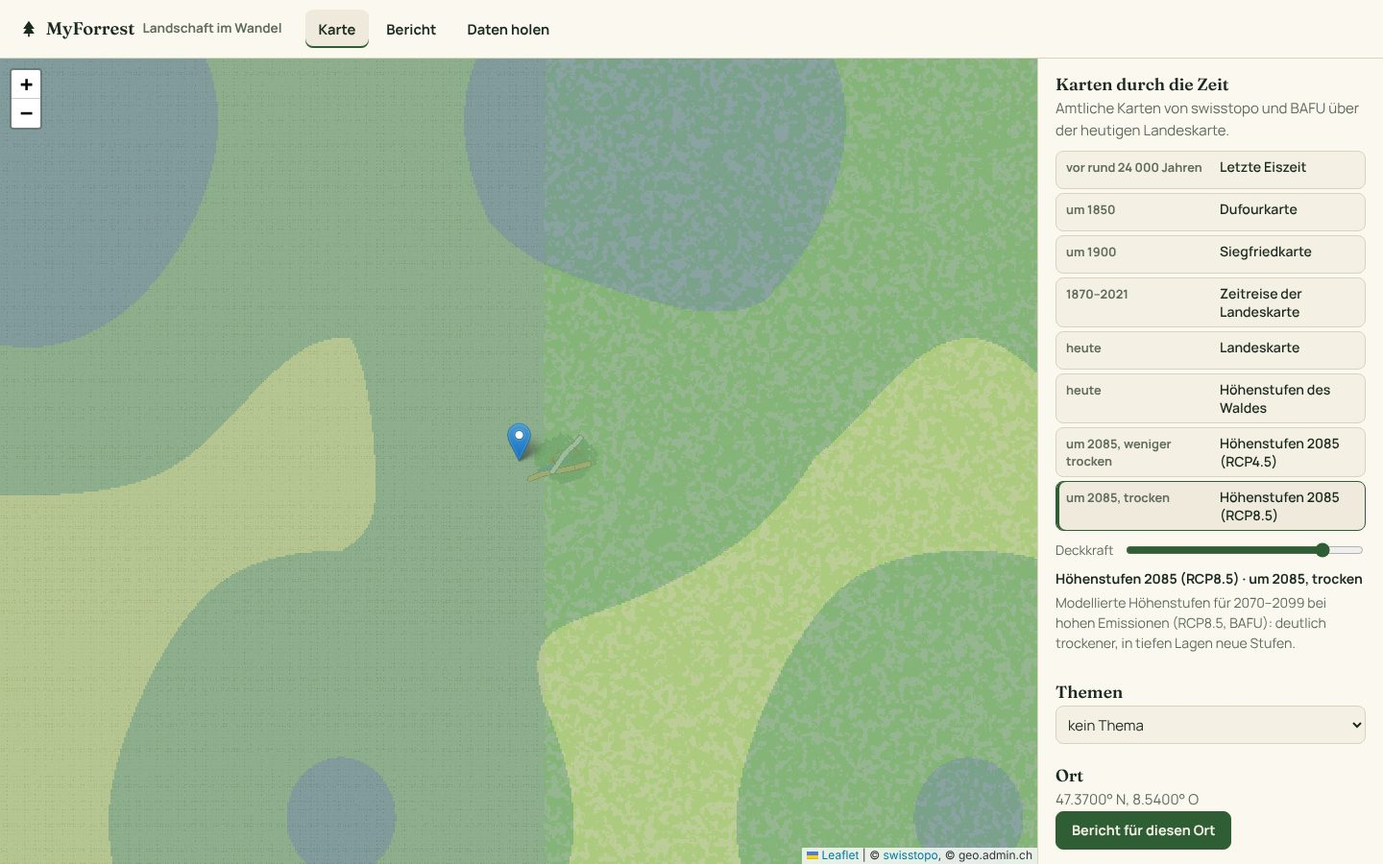
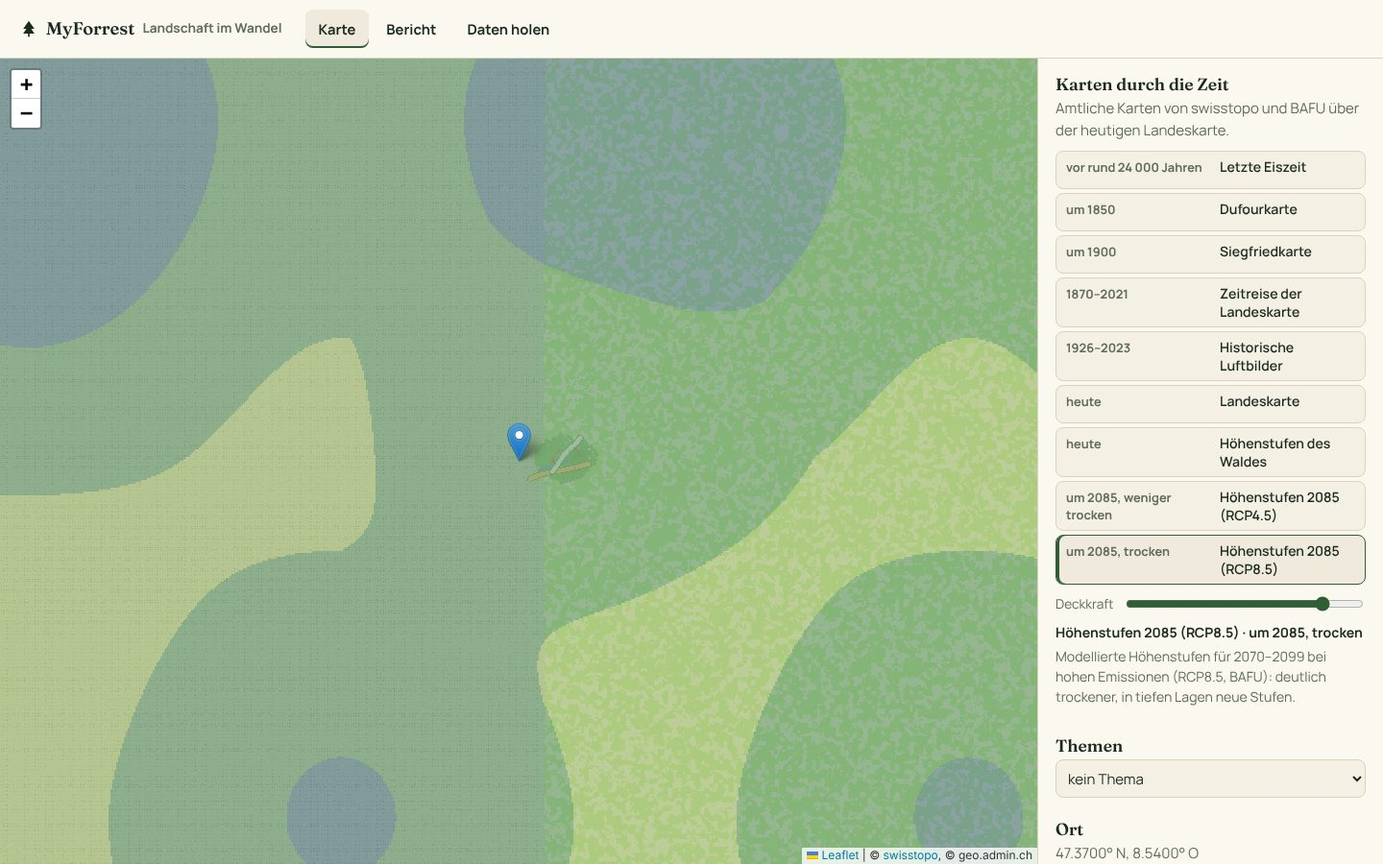
Landschaft im Wandel: historische Luftbilder (SWISSIMAGE Zeitreise)
Die Orthofotos von swisstopo seit 1926 als eigener Zeitpunkt in den Karten
durch die Zeit, mit demselben Regler wie die Zeitreise der Landeskarte. Die
Flugjahre und die Kachel-Adresse liest der Server aus den WMTS-Capabilities
(ch.swisstopo.swissimage-product); Ansicht und Jahr stehen im Link.

Claude-Session: https://claude.ai/code/session_01VrwUHCrbV39SyrRwqbHyo5

diff --git a/src/routes/landschaft.js b/src/routes/landschaft.js
@@ -6,7 +6,8 @@
  * inventories and GLAMOS series of this server, and the spots in the region. The climate part of the report comes
  * from the climate dossier (/api/klima), which the page asks for itself.
  *
- *   GET /api/landschaft/karten               the maps through time (with the years of swisstopo's «Zeitreise») and the layers per theme
+ *   GET /api/landschaft/karten               the maps through time (with the years of swisstopo's «Zeitreise» of the
+ *                                            Landeskarte and of the aerial images) and the layers per theme
  *   GET /api/landschaft/bericht?lat&lon      what the layers, the inventories and the spots say about a place
  */
 
@@ -25,8 +26,12 @@ const TIMELINE = [
     text: 'Topographischer Atlas der Schweiz (1870–1949): Gletscher, Wald und Siedlungen vor dem grossen Wandel des 20. Jahrhunderts.',
   },
   {
-    id: 'zeitreise', zeitreise: true, when: 'Jahr für Jahr', title: 'Zeitreise der Landeskarte',
+    id: 'zeitreise', wmts: 'ch.swisstopo.zeitreihen', ext: 'png', title: 'Zeitreise der Landeskarte',
     text: 'Die Landeskarten von swisstopo, wie sie im gewählten Jahr galten: Gletscher, Wald, Siedlungen und Strassen Jahr für Jahr. Vor 1964 decken sie die Schweiz nicht überall ab.',
+  },
+  {
+    id: 'luftbild', wmts: 'ch.swisstopo.swissimage-product', ext: 'jpeg', title: 'Historische Luftbilder',
+    text: 'SWISSIMAGE Zeitreise: die Orthofotos von swisstopo aus den Befliegungen seit 1926. Jede Kachel zeigt den Flug, der den grössten Teil liefert; an den Rändern der Flugblöcke mischen sich die Jahre.',
   },
   { id: 'heute', base: true, when: 'heute', title: 'Landeskarte', text: 'Die aktuelle Landeskarte von swisstopo.' },
   {
@@ -71,22 +76,30 @@ const { TAGS } = require('../tags');
 
 const RADIUS_KM = 5;
 
-// swisstopo's «Zeitreise»: the Landeskarte of each year as WMTS tiles; the years are in the WMTS capabilities.
-const ZEITREISE_LAYER = 'ch.swisstopo.zeitreihen';
+// swisstopo's «Zeitreise» (the Landeskarte of each year) and the aerial images of each flight: WMTS layers with a
+// time dimension; their years and tile addresses are in the WMTS capabilities.
 const ZEITREISE_CAPABILITIES = 'https://wmts.geo.admin.ch/EPSG/3857/1.0.0/WMTSCapabilities.xml';
-const ZEITREISE_TILES = `https://wmts.geo.admin.ch/1.0.0/${ZEITREISE_LAYER}/default/{time}/3857/{z}/{x}/{y}.png`;
 const DAY = 24 * 3600000;
 
-/** The time values (YYYYMMDD) of a WMTS layer in capabilities, oldest first. */
-function wmtsTimes(xml, layer) {
+/**
+ * A WMTS layer with a time dimension in capabilities: its time values (YYYY or YYYYMMDD, oldest first) and the tile
+ * address as a Leaflet template ({time}, {z}, {x}, {y}); null when the layer is not there.
+ */
+function wmtsLayer(xml, layer) {
   for (const block of xml.split(/<Layer>/).slice(1)) {
     const id = block.match(/<ows:Identifier>([^<]*)<\/ows:Identifier>/)?.[1];
     if (id !== layer) continue;
     const dim = block.match(/<Dimension>([\s\S]*?)<\/Dimension>/)?.[1] || '';
-    return [...new Set([...dim.matchAll(/<Value>(\d{8})<\/Value>/g)].map((m) => m[1]))].sort();
+    const times = [...new Set([...dim.matchAll(/<Value>(\d{4}(?:\d{4})?)<\/Value>/g)].map((m) => m[1]))].sort();
+    const raw = block.match(/<ResourceURL[^>]*resourceType="tile"[^>]*template="([^"]+)"/)?.[1]
+      || block.match(/<ResourceURL[^>]*template="([^"]+)"[^>]*resourceType="tile"/)?.[1] || null;
+    const template = raw && raw.replace(/&amp;/g, '&').replace('{Time}', '{time}').replace('{TileMatrixSet}', '3857')
+      .replace('{TileMatrix}', '{z}').replace('{TileCol}', '{x}').replace('{TileRow}', '{y}');
+    return { times, template };
   }
-  return [];
+  return null;
 }
+const yearOf = (time) => Number(String(time).slice(0, 4));
 
 function pick(layers, theme) {
   const hits = layers.filter((l) => theme.match.test(l.name));
@@ -98,32 +111,41 @@ module.exports = function registerLandschaft(app, {
   db, layers, glaciers = null, glamos = null, fetchImpl = fetch, now = () => Date.now(),
   zeitreiseUrl = (process.env.ZEITREISE_WMTS_URL ?? ZEITREISE_CAPABILITIES) || null,
 }) {
-  let zeitreise = { at: 0, times: [] };
-  /** The years of the «Zeitreise», read once a day; the last good list when the service does not answer. */
-  async function zeitreiseTimes() {
-    if (!zeitreiseUrl || (zeitreise.times.length && now() - zeitreise.at < DAY)) return zeitreise.times;
+  let wmts = { at: 0, layers: {} };
+  /** The time layers of the timeline from the WMTS capabilities, read once a day; the last good ones when it fails. */
+  async function timeLayers() {
+    if (!zeitreiseUrl || (Object.keys(wmts.layers).length && now() - wmts.at < DAY)) return wmts.layers;
     try {
       const r = await fetchImpl(zeitreiseUrl, { signal: AbortSignal.timeout(40000) });
       if (!r.ok) throw new Error(`HTTP ${r.status}`);
-      const times = wmtsTimes(await r.text(), ZEITREISE_LAYER);
-      if (times.length) zeitreise = { at: now(), times };
+      const xml = await r.text();
+      const found = {};
+      for (const t of TIMELINE.filter((x) => x.wmts)) {
+        const l = wmtsLayer(xml, t.wmts);
+        if (l?.times.length) found[t.wmts] = l;
+      }
+      if (Object.keys(found).length) wmts = { at: now(), layers: found };
     } catch { /* keep what we had */ }
-    return zeitreise.times;
+    return wmts.layers;
   }
 
   const hasCol = (table, col) => db.prepare(`PRAGMA table_info(${table})`).all().some((c) => c.name === col);
   const layerJson = (l) => ({ name: l.name, title: l.title, url: l.url, attribution: l.attribution, legend: l.legend });
 
   app.get('/api/landschaft/karten', async (req, res) => {
-    const [all, times] = await Promise.all([layers.geoadminLayers(), zeitreiseTimes()]);
+    const [all, timed] = await Promise.all([layers.geoadminLayers(), timeLayers()]);
     const timeline = [];
     for (const t of TIMELINE) {
-      if (t.zeitreise) {
-        if (!times.length) continue;
-        const years = times.map((time) => ({ year: Number(time.slice(0, 4)), time }));
+      if (t.wmts) {
+        const w = timed[t.wmts];
+        if (!w) continue;
+        // One entry per year (aerial images list several flights of a year: the last one counts).
+        const byYear = new Map(w.times.map((time) => [yearOf(time), time]));
+        const years = [...byYear].map(([year, time]) => ({ year, time }));
+        const tiles = w.template || `https://wmts.geo.admin.ch/1.0.0/${t.wmts}/default/{time}/3857/{z}/{x}/{y}.${t.ext}`;
         timeline.push({
           id: t.id, when: `${years[0].year}–${years[years.length - 1].year}`, title: t.title, text: t.text, base: false,
-          zeitreise: { tiles: ZEITREISE_TILES, layer: ZEITREISE_LAYER, years, attribution: '© swisstopo, Zeitreise' },
+          zeitreise: { tiles, layer: t.wmts, years, attribution: '© swisstopo' },
         });
         continue;
       }
@@ -182,5 +204,5 @@ module.exports = function registerLandschaft(app, {
 };
 
 module.exports.TIMELINE = TIMELINE;
-module.exports.wmtsTimes = wmtsTimes;
+module.exports.wmtsLayer = wmtsLayer;
 module.exports.THEMES = THEMES;

diff --git a/test/landschaft.test.js b/test/landschaft.test.js
@@ -121,20 +121,28 @@ test('Landschaft im Wandel is a page of its own, linked from the start page and 
   });
 });
 
-test('Landschaft im Wandel: the «Zeitreise» of the Landeskarte with the years of the WMTS capabilities', async () => {
+test('Landschaft im Wandel: the «Zeitreise» of the Landeskarte and the aerial images, with the years of the WMTS capabilities', async () => {
   const wmts = `<?xml version="1.0"?><Capabilities xmlns:ows="http://www.opengis.net/ows/1.1"><Contents>
 <Layer><ows:Title>Landeskarte</ows:Title><ows:Identifier>ch.swisstopo.pixelkarte-farbe</ows:Identifier>
 <Dimension><ows:Identifier>Time</ows:Identifier><Default>current</Default><Value>current</Value></Dimension></Layer>
 <Layer><ows:Title>Zeitreise</ows:Title><ows:Identifier>ch.swisstopo.zeitreihen</ows:Identifier>
 <Dimension><ows:Identifier>Time</ows:Identifier><Default>20211231</Default><Value>20211231</Value><Value>18641231</Value><Value>19501231</Value><Value>19501231</Value></Dimension></Layer>
+<Layer><ows:Title>SWISSIMAGE Zeitreise</ows:Title><ows:Identifier>ch.swisstopo.swissimage-product</ows:Identifier>
+<Dimension><ows:Identifier>Time</ows:Identifier><Default>current</Default><Value>current</Value><Value>1946</Value><Value>19260101</Value><Value>19461231</Value><Value>2023</Value></Dimension>
+<ResourceURL format="image/jpeg" resourceType="tile" template="https://wmts.geo.admin.ch/1.0.0/ch.swisstopo.swissimage-product/default/{Time}/{TileMatrixSet}/{TileMatrix}/{TileCol}/{TileRow}.jpeg"/></Layer>
 </Contents></Capabilities>`;
   await withServer(async (base) => {
     const d = await (await fetch(`${base}/api/landschaft/karten`)).json();
-    assert.deepEqual(d.timeline.map((t) => t.id), ['eiszeit', 'dufour', 'zeitreise', 'heute', 'wald-heute', 'wald-2085-t']);
+    assert.deepEqual(d.timeline.map((t) => t.id), ['eiszeit', 'dufour', 'zeitreise', 'luftbild', 'heute', 'wald-heute', 'wald-2085-t']);
     const z = d.timeline.find((t) => t.id === 'zeitreise');
     assert.equal(z.when, '1864–2021');
     assert.deepEqual(z.zeitreise.years, [{ year: 1864, time: '18641231' }, { year: 1950, time: '19501231' }, { year: 2021, time: '20211231' }], 'sorted, once each');
     assert.equal(z.zeitreise.tiles, 'https://wmts.geo.admin.ch/1.0.0/ch.swisstopo.zeitreihen/default/{time}/3857/{z}/{x}/{y}.png');
+    // The aerial images: the tile address from the capabilities, one entry per year (the last flight of a year).
+    const l = d.timeline.find((t) => t.id === 'luftbild');
+    assert.equal(l.when, '1926–2023');
+    assert.deepEqual(l.zeitreise.years, [{ year: 1926, time: '19260101' }, { year: 1946, time: '19461231' }, { year: 2023, time: '2023' }]);
+    assert.equal(l.zeitreise.tiles, 'https://wmts.geo.admin.ch/1.0.0/ch.swisstopo.swissimage-product/default/{time}/3857/{z}/{x}/{y}.jpeg');
   }, { wmts });
   // Without capabilities there is no «Zeitreise», the rest stays.
   await withServer(async (base) => {

diff --git a/scripts/screenshots/lib.js b/scripts/screenshots/lib.js
@@ -24,18 +24,22 @@ async function routeTiles(ctx) {
     if (!tileCache.has(key)) tileCache.set(key, await tiles.mercatorTile(z, x, y, 'osm'));
     await route.fulfill({ body: tileCache.get(key), contentType: 'image/png' });
   }));
-  // The «Zeitreise» of swisstopo: the placeholder map, sepia for the old editions.
-  await ctx.route(/ch\.swisstopo\.zeitreihen\/default\/(\d{8})\/3857\/(\d+)\/(\d+)\/(\d+)\.png/, safe(async (route) => {
-    const [, time, z, x, y] = route.request().url().match(/\/(\d{8})\/3857\/(\d+)\/(\d+)\/(\d+)\.png/);
+  // The «Zeitreise» of swisstopo and its aerial images: the placeholder map, sepia for old map editions, black and
+  // white for old flights.
+  await ctx.route(/ch\.swisstopo\.(zeitreihen|swissimage-product)\/default\/(\d{4,8})\/3857\/(\d+)\/(\d+)\/(\d+)\.(png|jpeg)/, safe(async (route) => {
+    const [, layer, time, z, x, y] = route.request().url().match(/ch\.swisstopo\.(zeitreihen|swissimage-product)\/default\/(\d{4,8})\/3857\/(\d+)\/(\d+)\/(\d+)\./);
     const key = `m${z}/${x}/${y}`;
     if (!tileCache.has(key)) tileCache.set(key, await tiles.mercatorTile(Number(z), Number(x), Number(y), 'osm'));
     const year = Number(time.slice(0, 4));
     const sharp = require('sharp');
-    const body = year < 1990 ? await sharp(tileCache.get(key)).modulate({ saturation: 0.25 }).tint({ r: 214, g: 190, b: 150 }).png().toBuffer() : tileCache.get(key);
+    let body = tileCache.get(key);
+    if (layer === 'zeitreihen' && year < 1990) body = await sharp(body).modulate({ saturation: 0.25 }).tint({ r: 214, g: 190, b: 150 }).png().toBuffer();
+    if (layer === 'swissimage-product' && year < 1990) body = await sharp(body).grayscale().linear(1.2, -20).png().toBuffer();
     await route.fulfill({ body, contentType: 'image/png' });
   }));
-  // swisstopo in Web Mercator (Landschaft im Wandel): the same placeholder map as OpenStreetMap.
-  await ctx.route(/wmts\.geo\.admin\.ch\/.*\/3857\/(\d+)\/(\d+)\/(\d+)\.jpeg/, safe(async (route) => {
+  // swisstopo in Web Mercator (Landschaft im Wandel): the same placeholder map as OpenStreetMap (not the aerial images
+  // above, which are JPEG too).
+  await ctx.route(/wmts\.geo\.admin\.ch\/(?!1\.0\.0\/ch\.swisstopo\.swissimage-product\/).*\/3857\/(\d+)\/(\d+)\/(\d+)\.jpeg/, safe(async (route) => {
     const [, z, x, y] = route.request().url().match(/\/3857\/(\d+)\/(\d+)\/(\d+)\.jpeg/).map(Number);
     const key = `m${z}/${x}/${y}`;
     if (!tileCache.has(key)) tileCache.set(key, await tiles.mercatorTile(z, x, y, 'osm'));

diff --git a/public/landschaft.js b/public/landschaft.js
@@ -62,6 +62,7 @@
     $('ln-zeit-range').value = String(zeit.index);
     // The year in the address, so the view can be shared.
     const q = new URLSearchParams(state.place ? { lat: state.place.lat, lon: state.place.lon } : {});
+    q.set('ansicht', stop.id);
     q.set('jahr', y.year);
     history.replaceState(null, '', `#karte?${q}`);
   }
@@ -101,8 +102,8 @@
     if (stop?.layer) timeLayer = wms(stop.layer, Number($('ln-opacity').value)).addTo(map);
     if (stop?.zeitreise) {
       const years = stop.zeitreise.years;
-      // Start at the year asked for (link), else around 1900.
-      const want = year ?? 1900;
+      // Start at the year asked for (link), else around 1900 (maps) or 1950 (aerial images).
+      const want = year ?? (id === 'luftbild' ? 1950 : 1900);
       zeit.index = years.reduce((best, y, i) => (Math.abs(y.year - want) < Math.abs(years[best].year - want) ? i : best), 0);
       timeLayer = L.tileLayer(zeitTiles(stop.zeitreise, years[zeit.index].time), {
         maxZoom: 19, maxNativeZoom: 18, bounds: CH, opacity: Number($('ln-opacity').value), attribution: stop.zeitreise.attribution,
@@ -151,8 +152,10 @@
       el('div', { id: 'ln-theme-legend' }),
       state.maps.themes.some((t) => t.layers.length) ? null : el('p', { class: 'ln-muted', text: 'Keine Themenkarten verfügbar.' }),
     ].filter(Boolean));
-    const year = Number(new URLSearchParams(location.hash.split('?')[1] || '').get('jahr'));
-    if (year && state.maps.timeline.some((t) => t.id === 'zeitreise')) showTimeline('zeitreise', { year });
+    const q = new URLSearchParams(location.hash.split('?')[1] || '');
+    const year = Number(q.get('jahr'));
+    const view = q.get('ansicht') || 'zeitreise';
+    if (year && state.maps.timeline.some((t) => t.id === view && t.zeitreise)) showTimeline(view, { year });
     else showTimeline(state.maps.timeline.some((t) => t.id === state.timeline) ? state.timeline : 'heute');
   }
 

diff --git a/scripts/screenshots/demo-server.js b/scripts/screenshots/demo-server.js
@@ -597,12 +597,18 @@ app.get('/demo-vt/:z/:x/:y.pbf', (req, res) => {
   res.set('access-control-allow-origin', '*');
   res.type('application/x-protobuf').send(vectorDemo.tile(Number(req.params.z), Number(req.params.x), Number(req.params.y)));
 });
-// The years of the demo «Zeitreise»: every tenth year since 1870 and the last edition.
+// The years of the demo «Zeitreise» (every tenth year since 1870 and the last edition) and of the demo aerial
+// images (a flight every few years since 1926).
 app.get('/demo-wmts/WMTSCapabilities.xml', (req, res) => {
   const years = [...Array.from({ length: 15 }, (_, i) => 1870 + i * 10), 2021];
+  const flights = [1926, 1934, 1946, 1956, 1967, 1976, 1988, 1998, 2004, 2010, 2016, 2023];
   res.type('text/xml').send(`<?xml version="1.0"?><Capabilities xmlns:ows="http://www.opengis.net/ows/1.1"><Contents><Layer>
 <ows:Title>Zeitreise (Demo)</ows:Title><ows:Identifier>ch.swisstopo.zeitreihen</ows:Identifier>
-<Dimension><ows:Identifier>Time</ows:Identifier>${years.map((y) => `<Value>${y}1231</Value>`).join('')}</Dimension></Layer></Contents></Capabilities>`);
+<Dimension><ows:Identifier>Time</ows:Identifier>${years.map((y) => `<Value>${y}1231</Value>`).join('')}</Dimension></Layer>
+<Layer><ows:Title>SWISSIMAGE Zeitreise (Demo)</ows:Title><ows:Identifier>ch.swisstopo.swissimage-product</ows:Identifier>
+<Dimension><ows:Identifier>Time</ows:Identifier><Value>current</Value>${flights.map((y) => `<Value>${y}</Value>`).join('')}</Dimension>
+<ResourceURL format="image/jpeg" resourceType="tile" template="https://wmts.geo.admin.ch/1.0.0/ch.swisstopo.swissimage-product/default/{Time}/{TileMatrixSet}/{TileMatrix}/{TileCol}/{TileRow}.jpeg"/></Layer>
+</Contents></Capabilities>`);
 });
 app.get('/demo-wms', async (req, res) => {
   const r = await demoWms(`http://x/demo-wms?${new URLSearchParams(req.query)}`);

diff --git a/scripts/screenshots/shoot.js b/scripts/screenshots/shoot.js
@@ -94,8 +94,17 @@ const pin = (page, id) => page.locator(`.leaflet-marker-icon[title="Spot ${id}"]
       range.value = '3';
       range.dispatchEvent(new Event('input'));
     });
-    await settle(page, 2500);
+    await settle(page, 6000);
     await page.screenshot({ path: out('landschaft-zeitreise.jpg'), ...jpg });
+    // The aerial images of 1956.
+    await stop('luftbild');
+    await page.evaluate(() => {
+      const range = document.getElementById('ln-zeit-range');
+      range.value = '3';
+      range.dispatchEvent(new Event('input'));
+    });
+    await settle(page, 6000);
+    await page.screenshot({ path: out('landschaft-luftbild.jpg'), ...jpg });
     await page.goto(`${BASE}/landschaft.html#bericht?lat=47.37&lon=8.54`);
     await page.waitForSelector('.ln-section', { timeout: 120000 });
     await settle(page, 2500);

diff --git a/public/sw.js b/public/sw.js
@@ -23,7 +23,7 @@
 
 importScripts('offline-queue.js');
 
-const SHELL_VERSION = 'v28';
+const SHELL_VERSION = 'v29';
 const DATA_VERSION = 'v1';
 const CACHE = {
   shell: `myforrest-shell-${SHELL_VERSION}`,

diff --git a/docs/landschaft.md b/docs/landschaft.md
@@ -14,7 +14,7 @@ Die zweite Perspektive ist eine eigene Seite, `/landschaft.html`, mit drei Teile
 ![Startseite: die zwei Perspektiven nebeneinander](screenshots/perspektiven.jpg)
 
 > Die Screenshots zeigen den Demo-Datensatz: Statt der Karten von swisstopo und BAFU zeichnet der Demo-Server
-> Platzhalter im selben Format (die Zeitreise vor 1990 in Sepia). Im Betrieb kommen die Karten von geo.admin.ch.
+> Platzhalter im selben Format (die Zeitreise vor 1990 in Sepia, Luftbilder vor 1990 schwarz-weiss). Im Betrieb kommen die Karten von geo.admin.ch.
 
 ## Karte
 
@@ -29,6 +29,7 @@ Deckkraft lässt sich einstellen, darunter stehen Erklärung und Legende:
 | um 1850 | Dufourkarte (1845–1865), am Ende der Kleinen Eiszeit | swisstopo, `ch.swisstopo.hiks-dufour` |
 | um 1900 | Siegfriedkarte (1870–1949) | swisstopo, `ch.swisstopo.hiks-siegfried` |
 | Jahr für Jahr | Zeitreise der Landeskarte: die Karte, wie sie im gewählten Jahr galt | swisstopo, `ch.swisstopo.zeitreihen` (WMTS mit Zeit) |
+| Flug für Flug | Historische Luftbilder (SWISSIMAGE Zeitreise, seit 1926) | swisstopo, `ch.swisstopo.swissimage-product` (WMTS mit Zeit) |
 | heute | Landeskarte | swisstopo, `ch.swisstopo.pixelkarte-grau` |
 | heute | Höhenstufen des Waldes | BAFU, `ch.bafu.wald-vegetationshoehenstufen_1975` |
 | um 2085, weniger trocken | Höhenstufen 2070–2099 bei mittleren Emissionen (RCP4.5) | BAFU, `ch.bafu.wald-vegetationshoehenstufen_2085_weniger_trocken` |
@@ -44,6 +45,14 @@ Vor 1964 decken die Karten die Schweiz nicht überall ab. Das Jahr steht in der 
 lässt sich ein Ausschnitt mit Jahr teilen.
 
 ![Zeitreise der Landeskarte: die Karte von 1900, mit Regler und Abspielknopf](screenshots/landschaft-zeitreise.jpg)
+
+**Historische Luftbilder.** Die Orthofotos von swisstopo (SWISSIMAGE Zeitreise) aus den Befliegungen seit 1926, mit
+demselben Regler: Er springt von Flugjahr zu Flugjahr, die Jahre kommen ebenfalls aus den WMTS-Capabilities. Die
+Schweiz wurde in Flugblöcken beflogen, nicht jedes Jahr überall; jede Kachel zeigt den Flug, der den grössten Teil
+liefert, an den Rändern der Blöcke mischen sich die Jahre. Der Link hält Ansicht und Jahr fest
+(`#karte?…&ansicht=luftbild&jahr=1956`).
+
+![Historische Luftbilder: das Luftbild von 1956, mit Regler über die Flugjahre](screenshots/landschaft-luftbild.jpg)
 
 ![Karte: die modellierten Höhenstufen des Waldes um 2085 bei hohen Emissionen](screenshots/landschaft-2085.jpg)
 
@@ -87,7 +96,7 @@ unter [Offene Geodaten](funktionen.md#offene-geodaten-für-gis-und-geoportale).
 ## Technik
 
 - `src/routes/landschaft.js`: `GET /api/landschaft/karten` (Karten durch die Zeit und Ebenen pro Thema, aus der
-  Ebenenliste von geo.admin.ch; die Jahre der Zeitreise aus den WMTS-Capabilities) und `GET /api/landschaft/bericht?lat=&lon=` (Identify pro Thema, Gletscher aus den
+  Ebenenliste von geo.admin.ch; die Jahre der Zeitreise und der Luftbilder aus den WMTS-Capabilities) und `GET /api/landschaft/bericht?lat=&lon=` (Identify pro Thema, Gletscher aus den
   Inventaren mit GLAMOS, Fotos, Befunde und Neophyten im Umkreis). Die Ebenenliste und der Identify-Dienst kommen aus
   `src/routes/layers.js` (Panel *Ebenen*).
 - `public/landschaft.html`, `landschaft.js`, `landschaft.css`: Leaflet mit den Kacheln von swisstopo und den WMS von
@@ -97,6 +106,7 @@ unter [Offene Geodaten](funktionen.md#offene-geodaten-für-gis-und-geoportale).
 ## Quellen
 
 - swisstopo: [Die Schweiz während des letzteiszeitlichen Maximums (LGM) 1:500 000](https://opendata.swiss/de/dataset/die-schweiz-wahrend-des-letzteiszeitlichen-maximums-lgm-1-500000)
+- swisstopo: [SWISSIMAGE Zeitreise](https://www.swisstopo.admin.ch/de/orthobilder-swissimage-10-cm) (historische Orthofotos seit 1926)
 - swisstopo: [Dufourkarte](https://www.swisstopo.admin.ch/) und [Siegfriedkarte](https://www.swisstopo.admin.ch/en/siegfried-map), Landeskarte
 - BAFU: [Vegetationshöhenstufen 2085 (trocken und weniger trocken)](https://ckan.opendata.swiss/en/dataset/vegetationshohenstufen-modelliert-fur-2085-mit-weniger-trockener-klimazukunft)
 - MeteoSchweiz: Klimanormwerte und homogene Messreihen; Klimaszenarien CH2025 (MeteoSchweiz, ETH Zürich, NCCS)

diff --git a/docs/api.md b/docs/api.md
@@ -72,7 +72,7 @@ Alle Routen liefern und erwarten JSON, sofern nicht anders angegeben. Den Aufbau
 | `POST`   | `/api/klima/sync`            | Homogene Messreihen der MeteoSchweiz über die STAC-API von `data.geo.admin.ch` laden (Admin, sobald es Konten gibt) |
 | `POST`   | `/api/klima/import?format=`  | Datei als Text importieren (Admin): `nbcn&kind=stations` bzw. `nbcn` (Jahreswerte einer Station, Dateien der MeteoSchweiz), `stations` (`station;name;lat;lon;elevation;year;temp;precip`) oder `ch2025` (`place;lat;lon;elevation;indicator;level;value;low;high`) |
 | `GET`    | `/api/layers`                | Ebenen aus externen Quellen nach Thema: `groups` mit `id`, `title`, `layers` (`id`, `url`, `name`, `title`, `attribution`, `bbox` für regionale, `legend` als GetLegendGraphic-Adresse, `info` für *Was ist hier?*); `errors` für Quellen, die nicht antworteten |
-| `GET`    | `/api/landschaft/karten`     | Landschaft im Wandel: Karten durch die Zeit (`timeline`: `id`, `when`, `title`, `text`, `layer` mit `url`, `name`, `legend`; `base` für die Landeskarte; `zeitreise` mit Kachel-Adresse `tiles` und den Jahren `years` als `{ year, time }` aus den WMTS-Capabilities) und Ebenen pro Thema (`themes`: `klima`, `wasser`, `wald`, `boden`), aus der Ebenenliste von geo.admin.ch |
+| `GET`    | `/api/landschaft/karten`     | Landschaft im Wandel: Karten durch die Zeit (`timeline`: `id`, `when`, `title`, `text`, `layer` mit `url`, `name`, `legend`; `base` für die Landeskarte; `zeitreise` für die Zeitreise der Landeskarte und die historischen Luftbilder, mit Kachel-Adresse `tiles`, Ebene `layer` und den Jahren `years` als `{ year, time }` aus den WMTS-Capabilities) und Ebenen pro Thema (`themes`: `klima`, `wasser`, `wald`, `boden`), aus der Ebenenliste von geo.admin.ch |
 | `GET`    | `/api/landschaft/bericht?lat=&lon=` | Bericht für einen Ort: pro Thema die abgefragten Ebenen und ihre Aussagen (`items` mit `title` und `attributes`), `glacier` (Inventare und GLAMOS, `null` ohne) und `observed` (Fotos, Spots, Zeitraum, Befunde mit `label`, Neophyten im Umkreis von 5 km); den Klima-Teil liefert `/api/klima` |
 | `GET`    | `/api/layers/info?lat=&lon=&layers=` | Was die Ebenen (`id` aus `/api/layers`, kommagetrennt, höchstens 6) an einem Punkt sagen: `items` mit `title` und `attributes` als `[Name, Wert]` |
 | `GET`    | `/vendor/maplibre-leaflet/leaflet-maplibre-gl.js` | MapLibre in Leaflet für die Grundkarte; der Vektorstil steht in `/api/config` unter `basemap` (`style`, `attribution`) |

diff --git a/docs/roadmap.md b/docs/roadmap.md
@@ -144,8 +144,8 @@ Als Nächstes:
 - **Mit dem echten Dienst prüfen**: die Ebenen der Karten und Themen gegen die aktuelle Ebenenliste von geo.admin.ch
   prüfen (gebaut nach den Kennungen von swisstopo und BAFU, getestet mit einer nachgebauten Liste) und die
   Identify-Antworten der Themenkarten im Bericht lesbar beschriften (Codes der Höhenstufen und der Arealstatistik).
-- **Historische Luftbilder**: die Luftbilder von swisstopo (SWISSIMAGE Zeitreise) neben der Zeitreise der Landeskarte,
-  und zwei Jahre nebeneinander mit Regler (wie Vorher/Nachher bei den Fotos).
+- **Zwei Jahre nebeneinander**: Karte oder Luftbild aus zwei Jahren mit Regler vergleichen (wie Vorher/Nachher bei
+  den Fotos).
 - **Gletscherumrisse auf der Karte**: die Inventare 1850, 1973, 2010 und 2016 direkt als Ebene, mit Fläche pro Jahr im
   Bericht.
 - **Wasser und Landwirtschaft vertiefen**: Abflüsse aus Hydro-CH2018, Bodenfeuchte und Trockenheit aus den Messnetzen,
@@ -178,6 +178,7 @@ Aus früheren Versionen dieser Roadmap, nach Themen:
   OSM, Landeskarte und Luftbild; Panel *Ebenen* mit Wald und Waldbrand, Bevölkerung, Bodennutzung, Verkehr von
   geo.admin.ch, Baumkataster Zürich, SITG Genf, EFFIS und NASA FIRMS, mit *Was ist hier?*; Baumkataster Zürich auch
   als Baumart-Vorschlag
+- Landschaft im Wandel: historische Luftbilder von swisstopo (SWISSIMAGE Zeitreise, seit 1926), Flug für Flug mit Regler
 - Landschaft im Wandel: Zeitreise der Landeskarte von swisstopo, Jahr für Jahr mit Regler, Abspielen und Jahr im Link
 - Landschaft im Wandel: zweite Perspektive aus Sicht der Natur als eigene Seite, mit amtlichen Karten durch die Zeit
   (Eiszeit, Dufour, Siegfried, Landeskarte, Waldhöhenstufen heute und 2085), Themenkarten von geo.admin.ch und einem

diff --git a/docs/installation.md b/docs/installation.md
@@ -182,7 +182,7 @@ Die feste Adresse lässt sich als Variable `APP_URL` in die Android-App bauen, d
 | `BASISKARTE_QUELLE` | OpenFreeMap, OpenMapTiles, OSM | Quellenangabe der Grundkarte, falls der Stil keine nennt |
 | `DOKU_URL` | `https://michifrey.github.io/myforrest/` | Adresse der Doku-Website für die Links auf der Startseite (Navigation, Funktionen, Footer); leer = keine Links |
 | `EBENEN_WMS_URL` | `https://wms.geo.admin.ch/` | Kartendienst für die Themen des Panels [Ebenen](funktionen.md#ebenen-karten-aus-offiziellen-quellen); leer = keine Ebenen von geo.admin.ch |
-| `ZEITREISE_WMTS_URL` | WMTS-Capabilities von geo.admin.ch (EPSG:3857) | Woher die Jahre der *Zeitreise der Landeskarte* in [Landschaft im Wandel](landschaft.md) kommen (einmal am Tag gelesen); leer = keine Zeitreise |
+| `ZEITREISE_WMTS_URL` | WMTS-Capabilities von geo.admin.ch (EPSG:3857) | Woher die Jahre der *Zeitreise der Landeskarte* und der *historischen Luftbilder* in [Landschaft im Wandel](landschaft.md) kommen (einmal am Tag gelesen); leer = beide aus |
 | `EBENEN_IDENTIFY_URL` | Identify-Dienst von geo.admin.ch | Für *Was ist hier?* bei Ebenen von geo.admin.ch |
 | `EBENEN_REGIONAL` | Baumkataster Zürich, SITG Genf, EFFIS | Regionale WMS-Dienste als JSON-Liste `[{ "url", "group", "bbox": [W, S, O, N], "attribution" }]`; alle ihre Ebenen erscheinen, wenn die Karte im Gebiet steht |
 | `FIRMS_MAP_KEY` | – | Schlüssel von [NASA FIRMS](https://firms.modaps.eosdis.nasa.gov/api/map_key/): aktive Feuer (MODIS, VIIRS) als Ebene |

diff --git a/README.md b/README.md
@@ -576,7 +576,7 @@ Kronendach des SITG, und Orte dort verweisen auf das 3D-Modell [Genève 3D](http
 Die zweite Perspektive ist eine eigene Seite (`/landschaft.html`): was mit der Landschaft selbst geschieht, aus
 amtlichen Karten und Daten. Die **Karte** legt Karten aus anderen Zeiten über die heutige Landeskarte: die letzte
 Eiszeit, die Dufourkarte um 1850, die Siegfriedkarte um 1900, die **Zeitreise der Landeskarte** Jahr für Jahr (mit
-Regler und Abspielknopf) und die Höhenstufen des Waldes heute und um 2085 (BAFU, trocken und weniger trocken). Dazu lassen sich Themenkarten von geo.admin.ch zu Klima, Gletschern und Wasser, Wald,
+Regler und Abspielknopf), die **historischen Luftbilder** von swisstopo seit 1926 und die Höhenstufen des Waldes heute und um 2085 (BAFU, trocken und weniger trocken). Dazu lassen sich Themenkarten von geo.admin.ch zu Klima, Gletschern und Wasser, Wald,
 Landwirtschaft und Boden einblenden.
 
 ![Bericht für einen Ort: Klima, Gletscher und Wasser, Wald, Landwirtschaft und Boden](docs/screenshots/landschaft-bericht.jpg)
